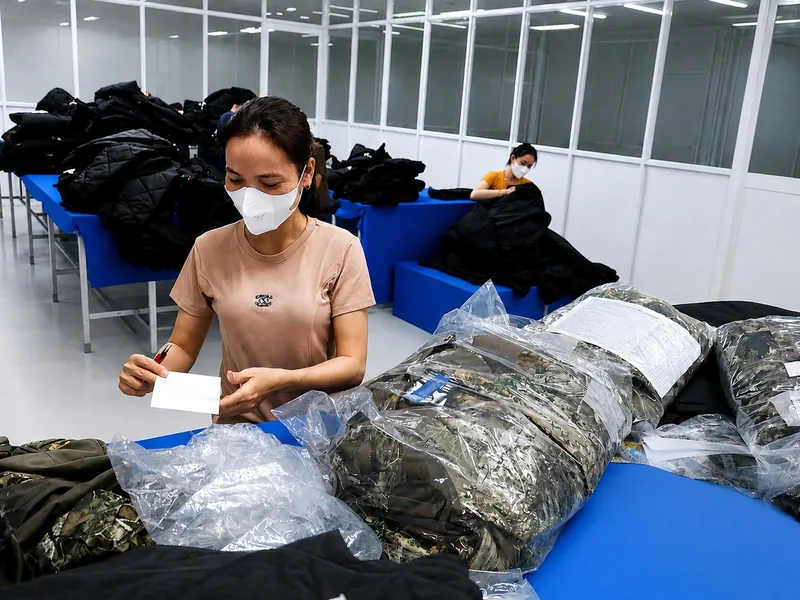
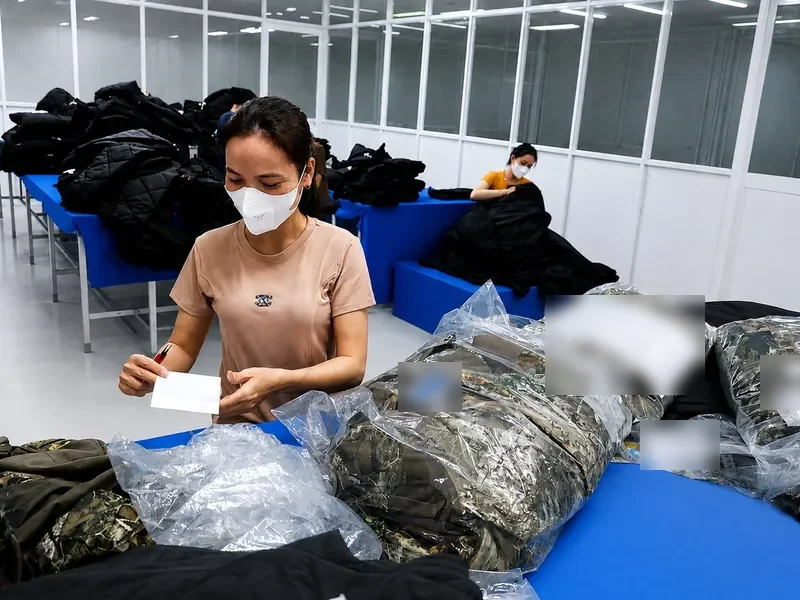
Kiem tra truoc khi day: xoa hangtag khach tren anh san pham, lam mo nhan bao bi, sua tran ngang so lieu tren dien thoai (EN), dich them nhan WRAP va link bo qua, 15 nam dong hanh

diff --git a/public/index.html b/public/index.html
@@ -22,7 +22,7 @@
   <link rel="preconnect" href="https://fonts.gstatic.com" crossorigin>
   <link href="https://fonts.googleapis.com/css2?family=Open+Sans:wght@400;500;600;700&family=Be+Vietnam+Pro:wght@500;600;700&display=swap" rel="stylesheet">
   <link rel="preload" as="image" href="assets/img/hero.webp?v=6" fetchpriority="high">
-  <link rel="stylesheet" href="css/styles.css?v=20260928">
+  <link rel="stylesheet" href="css/styles.css?v=20260928b">
   <script type="application/ld+json">
   {
     "@context": "https://schema.org",
@@ -63,7 +63,7 @@
       <div class="preloader__bar"></div>
     </div>
   </div>
-  <a href="#main" class="sr-only">Bỏ qua tới nội dung chính</a>
+  <a href="#main" class="sr-only" data-en="Skip to main content" data-zh="跳至主要内容">Bỏ qua tới nội dung chính</a>
   <header id="site-header"></header>
 
   <main id="main">
@@ -266,7 +266,7 @@
           <div class="split__media" data-reveal>
             <div class="grid" style="gap:var(--space-4)">
               <div class="certs">
-                <div class="cert"><svg viewBox="0 0 24 24" fill="none" stroke="currentColor" stroke-width="1.8" stroke-linecap="round" stroke-linejoin="round"><path d="M12 2 4 6v6c0 5 3.5 8 8 10 4.5-2 8-5 8-10V6l-8-4Z"/><path d="m9 12 2 2 4-4"/></svg><span><b>Chứng nhận WRAP</b><span data-en="Responsible production" data-zh="责任生产">Sản xuất có trách nhiệm</span></span></div>
+                <div class="cert"><svg viewBox="0 0 24 24" fill="none" stroke="currentColor" stroke-width="1.8" stroke-linecap="round" stroke-linejoin="round"><path d="M12 2 4 6v6c0 5 3.5 8 8 10 4.5-2 8-5 8-10V6l-8-4Z"/><path d="m9 12 2 2 4-4"/></svg><span><b data-en="WRAP Certified" data-zh="WRAP认证">Chứng nhận WRAP</b><span data-en="Responsible production" data-zh="责任生产">Sản xuất có trách nhiệm</span></span></div>
                 <div class="cert"><svg viewBox="0 0 24 24" fill="none" stroke="currentColor" stroke-width="1.8" stroke-linecap="round" stroke-linejoin="round"><circle cx="12" cy="8" r="6"/><path d="M8.2 13.9 7 22l5-3 5 3-1.2-8.1"/></svg><span><b data-en="25+ years" data-zh="25年以上">Hơn 25 năm</b><span data-en="Since 1999" data-zh="始于1999年">Hoạt động từ 1999</span></span></div>
                 <div class="cert"><svg viewBox="0 0 24 24" fill="none" stroke="currentColor" stroke-width="1.8" stroke-linecap="round" stroke-linejoin="round"><circle cx="12" cy="12" r="9"/><path d="M12 7v5l3 2"/></svg><span><b data-en="On-time" data-zh="准时">Đúng tiến độ</b><span data-en="Reliable lead time" data-zh="交期可靠">Giao hàng đúng hẹn</span></span></div>
                 <div class="cert"><svg viewBox="0 0 24 24" fill="none" stroke="currentColor" stroke-width="1.8" stroke-linecap="round" stroke-linejoin="round"><path d="M16 21v-2a4 4 0 0 0-4-4H6a4 4 0 0 0-4 4v2"/><circle cx="9" cy="7" r="4"/><path d="M22 21v-2a4 4 0 0 0-3-3.87"/></svg><span><b data-en="Professional team" data-zh="专业团队">Đội ngũ chuyên nghiệp</b><span data-en="300+ staff" data-zh="300余名员工">Trên 300 nhân sự</span></span></div>
@@ -403,7 +403,7 @@
         <div class="cards">
           <article class="card" data-reveal>
             <div class="card__icon"><svg viewBox="0 0 24 24" fill="none" stroke="currentColor" stroke-width="1.8" stroke-linecap="round" stroke-linejoin="round"><path d="M11 17a4 4 0 0 1-4-4V5a2 2 0 0 1 2-2h.5M13 7a4 4 0 0 1 4 4v8a2 2 0 0 1-2 2h-.5"/><path d="m14 4 3 3-3 3M10 20l-3-3 3-3"/></svg></div>
-            <h3 data-en="14+ Years Together" data-zh="携手同行14年以上">Hơn 14 Năm Đồng Hành</h3>
+            <h3 data-en="15 Years Together" data-zh="携手同行15年">15 Năm Đồng Hành</h3>
             <p data-en="A stable relationship built on consistent quality and reliable delivery." data-zh="建立在稳定品质与可靠交货基础上的长期合作关系。">Mối quan hệ ổn định xây trên chất lượng đồng đều và giao hàng tin cậy.</p>
           </article>
           <article class="card" data-reveal data-reveal-delay="1">

diff --git a/public/capabilities.html b/public/capabilities.html
@@ -18,7 +18,7 @@
   <link rel="preconnect" href="https://fonts.gstatic.com" crossorigin>
   <link href="https://fonts.googleapis.com/css2?family=Open+Sans:wght@400;500;600;700&family=Be+Vietnam+Pro:wght@500;600;700&display=swap" rel="stylesheet">
   <link rel="preload" as="image" href="assets/img/covers/capabilities.webp?v=4" fetchpriority="high">
-  <link rel="stylesheet" href="css/styles.css?v=20260928">
+  <link rel="stylesheet" href="css/styles.css?v=20260928b">
 </head>
 <body data-page="capabilities">
   <div class="preloader" id="preloader" role="status" aria-label="Đang tải">
@@ -27,7 +27,7 @@
       <div class="preloader__bar"></div>
     </div>
   </div>
-  <a href="#main" class="sr-only">Bỏ qua tới nội dung chính</a>
+  <a href="#main" class="sr-only" data-en="Skip to main content" data-zh="跳至主要内容">Bỏ qua tới nội dung chính</a>
   <header id="site-header"></header>
 
   <main id="main">
@@ -119,14 +119,12 @@
           <div class="prod" data-reveal data-reveal-delay="1">
             <img class="rotator-img is-active" src="assets/img/prod-2.webp" alt="Áo khoác có mũ" loading="lazy">
             <img class="rotator-img" data-src="assets/img/prod-7.webp" alt="Áo khoác có mũ - phối màu rêu và navy" loading="lazy">
-            <img class="rotator-img" data-src="assets/img/prod-8.webp" alt="Áo khoác phao 2 tông màu xám" loading="lazy">
             <div class="prod__body"><h3 data-en="Hooded Jackets &amp; Vests" data-zh="连帽夹克与马甲">Áo Khoác Có Mũ &amp; Gi-lê</h3><p data-en="Windbreakers, hooded jackets &amp; padded vests." data-zh="风衣外套、连帽夹克与棉马甲。">Áo khoác gió, áo có mũ, gi-lê giữ nhiệt xuất khẩu.</p></div>
           </div>
           <div class="prod" data-reveal data-reveal-delay="2">
             <img class="rotator-img is-active" src="assets/img/prod-4.webp" alt="Áo khoác xuất khẩu" loading="lazy">
             <img class="rotator-img" data-src="assets/img/prod-9.webp" alt="Áo khoác xuất khẩu - bộ sưu tập trưng bày" loading="lazy">
-            <img class="rotator-img" data-src="assets/img/prod-5.webp" alt="Bộ đồ áo khoác và quần" loading="lazy">
-            <img class="rotator-img" data-src="assets/img/prod-6.webp" alt="Đa dạng mẫu áo khoác" loading="lazy">
+            <img class="rotator-img" data-src="assets/img/prod-5.webp?v=2" alt="Bộ đồ áo khoác và quần" loading="lazy">
             <div class="prod__body"><h3 data-en="Export Jackets &amp; Sets" data-zh="出口夹克及套装">Áo Khoác Xuất Khẩu</h3><p data-en="Jackets &amp; coordinated sets for the E.U. and North America." data-zh="面向欧盟与北美市场的夹克及配套服装。">Jacket và bộ đồ đồng bộ xuất khẩu E.U, Bắc Mỹ.</p></div>
           </div>
         </div>

diff --git a/public/profile.html b/public/profile.html
@@ -18,7 +18,7 @@
   <link rel="preconnect" href="https://fonts.gstatic.com" crossorigin>
   <link href="https://fonts.googleapis.com/css2?family=Open+Sans:wght@400;500;600;700&family=Be+Vietnam+Pro:wght@500;600;700&display=swap" rel="stylesheet">
   <link rel="preload" as="image" href="assets/img/covers/profile.webp?v=5" fetchpriority="high">
-  <link rel="stylesheet" href="css/styles.css?v=20260928">
+  <link rel="stylesheet" href="css/styles.css?v=20260928b">
 </head>
 <body data-page="profile">
   <div class="preloader" id="preloader" role="status" aria-label="Đang tải">
@@ -27,7 +27,7 @@
       <div class="preloader__bar"></div>
     </div>
   </div>
-  <a href="#main" class="sr-only">Bỏ qua tới nội dung chính</a>
+  <a href="#main" class="sr-only" data-en="Skip to main content" data-zh="跳至主要内容">Bỏ qua tới nội dung chính</a>
   <header id="site-header"></header>
 
   <main id="main">
@@ -127,7 +127,7 @@
           <figure class="cert-thumb"><img src="assets/img/gallery/g28.webp?v=1" alt="Kiểm tra hoàn thiện sản phẩm tại May Đông Thành"><figcaption data-en="Final Finishing Check" data-zh="最终整理检查">Kiểm Tra Hoàn Thiện</figcaption></figure>
           <figure class="cert-thumb"><img src="assets/img/gallery/g29.webp?v=1" alt="Kiểm tra chất lượng sản phẩm"><figcaption data-en="Quality Inspection" data-zh="质量检验">Kiểm Tra Chất Lượng</figcaption></figure>
           <figure class="cert-thumb"><img src="assets/img/gallery/g30.webp?v=1" alt="Quản lý đơn hàng tại May Đông Thành"><figcaption data-en="Order Management" data-zh="订单管理">Quản Lý Đơn Hàng</figcaption></figure>
-          <figure class="cert-thumb"><img src="assets/img/gallery/g31.webp?v=1" alt="Đóng gói sản phẩm tại May Đông Thành"><figcaption data-en="Finished Goods Packing" data-zh="成品包装">Đóng Gói Sản Phẩm</figcaption></figure>
+          <figure class="cert-thumb"><img src="assets/img/gallery/g31.webp?v=2" alt="Đóng gói sản phẩm tại May Đông Thành"><figcaption data-en="Finished Goods Packing" data-zh="成品包装">Đóng Gói Sản Phẩm</figcaption></figure>
           <figure class="cert-thumb"><img src="assets/img/gallery/g32.webp?v=1" alt="Vận hành máy plotter tại May Đông Thành"><figcaption data-en="Operating The Plotter" data-zh="绘图机操作">Vận Hành Máy Plotter</figcaption></figure>
           <figure class="cert-thumb"><img src="assets/img/gallery/g33.webp?v=1" alt="Kiểm tra đường may tại May Đông Thành"><figcaption data-en="Seam Quality Check" data-zh="缝合品质检查">Kiểm Tra Đường May</figcaption></figure>
         </div>

diff --git a/public/careers.html b/public/careers.html
@@ -18,7 +18,7 @@
   <link rel="preconnect" href="https://fonts.gstatic.com" crossorigin>
   <link href="https://fonts.googleapis.com/css2?family=Open+Sans:wght@400;500;600;700&family=Be+Vietnam+Pro:wght@500;600;700&display=swap" rel="stylesheet">
   <link rel="preload" as="image" href="assets/img/covers/careers.webp?v=5" fetchpriority="high">
-  <link rel="stylesheet" href="css/styles.css?v=20260928">
+  <link rel="stylesheet" href="css/styles.css?v=20260928b">
 </head>
 <body data-page="careers">
   <div class="preloader" id="preloader" role="status" aria-label="Đang tải">
@@ -27,7 +27,7 @@
       <div class="preloader__bar"></div>
     </div>
   </div>
-  <a href="#main" class="sr-only">Bỏ qua tới nội dung chính</a>
+  <a href="#main" class="sr-only" data-en="Skip to main content" data-zh="跳至主要内容">Bỏ qua tới nội dung chính</a>
   <header id="site-header"></header>
 
   <main id="main">

diff --git a/public/contact.html b/public/contact.html
@@ -18,7 +18,7 @@
   <link rel="preconnect" href="https://fonts.gstatic.com" crossorigin>
   <link href="https://fonts.googleapis.com/css2?family=Open+Sans:wght@400;500;600;700&family=Be+Vietnam+Pro:wght@500;600;700&display=swap" rel="stylesheet">
   <link rel="preload" as="image" href="assets/img/covers/contact.webp?v=4" fetchpriority="high">
-  <link rel="stylesheet" href="css/styles.css?v=20260928">
+  <link rel="stylesheet" href="css/styles.css?v=20260928b">
 </head>
 <body data-page="contact">
   <div class="preloader" id="preloader" role="status" aria-label="Đang tải">
@@ -27,7 +27,7 @@
       <div class="preloader__bar"></div>
     </div>
   </div>
-  <a href="#main" class="sr-only">Bỏ qua tới nội dung chính</a>
+  <a href="#main" class="sr-only" data-en="Skip to main content" data-zh="跳至主要内容">Bỏ qua tới nội dung chính</a>
   <header id="site-header"></header>
 
   <main id="main">

diff --git a/public/about.html b/public/about.html
@@ -18,7 +18,7 @@
   <link rel="preconnect" href="https://fonts.gstatic.com" crossorigin>
   <link href="https://fonts.googleapis.com/css2?family=Open+Sans:wght@400;500;600;700&family=Be+Vietnam+Pro:wght@500;600;700&display=swap" rel="stylesheet">
   <link rel="preload" as="image" href="assets/img/covers/about.webp?v=5" fetchpriority="high">
-  <link rel="stylesheet" href="css/styles.css?v=20260928">
+  <link rel="stylesheet" href="css/styles.css?v=20260928b">
 </head>
 <body data-page="about">
   <div class="preloader" id="preloader" role="status" aria-label="Đang tải">
@@ -27,7 +27,7 @@
       <div class="preloader__bar"></div>
     </div>
   </div>
-  <a href="#main" class="sr-only">Bỏ qua tới nội dung chính</a>
+  <a href="#main" class="sr-only" data-en="Skip to main content" data-zh="跳至主要内容">Bỏ qua tới nội dung chính</a>
   <header id="site-header"></header>
 
   <main id="main">

diff --git a/public/404.html b/public/404.html
@@ -10,7 +10,7 @@
   <link rel="preconnect" href="https://fonts.googleapis.com">
   <link rel="preconnect" href="https://fonts.gstatic.com" crossorigin>
   <link href="https://fonts.googleapis.com/css2?family=Open+Sans:wght@400;500;600;700&family=Be+Vietnam+Pro:wght@500;600;700&display=swap" rel="stylesheet">
-  <link rel="stylesheet" href="css/styles.css?v=20260928">
+  <link rel="stylesheet" href="css/styles.css?v=20260928b">
 </head>
 <body data-page="404">
   <div class="preloader" id="preloader" role="status" aria-label="Đang tải">

diff --git a/public/css/styles.css b/public/css/styles.css
@@ -901,3 +901,8 @@ body[data-page="profile"] .page-hero h1 { line-height: 1.5; }
 }
 @keyframes threadRun { to { background-position: 20px 0; } }
 @media (prefers-reduced-motion: reduce) { .process::before { transition: none; } }
+
+/* ---------------- Sửa tràn ngang dải số liệu trên điện thoại ---------------- */
+.stats-band > .stat { min-width: 0; }
+.stat .lbl { overflow-wrap: break-word; hyphens: auto; }
+@media (max-width: 560px) { .stat { padding: var(--space-4) var(--space-2); } }
